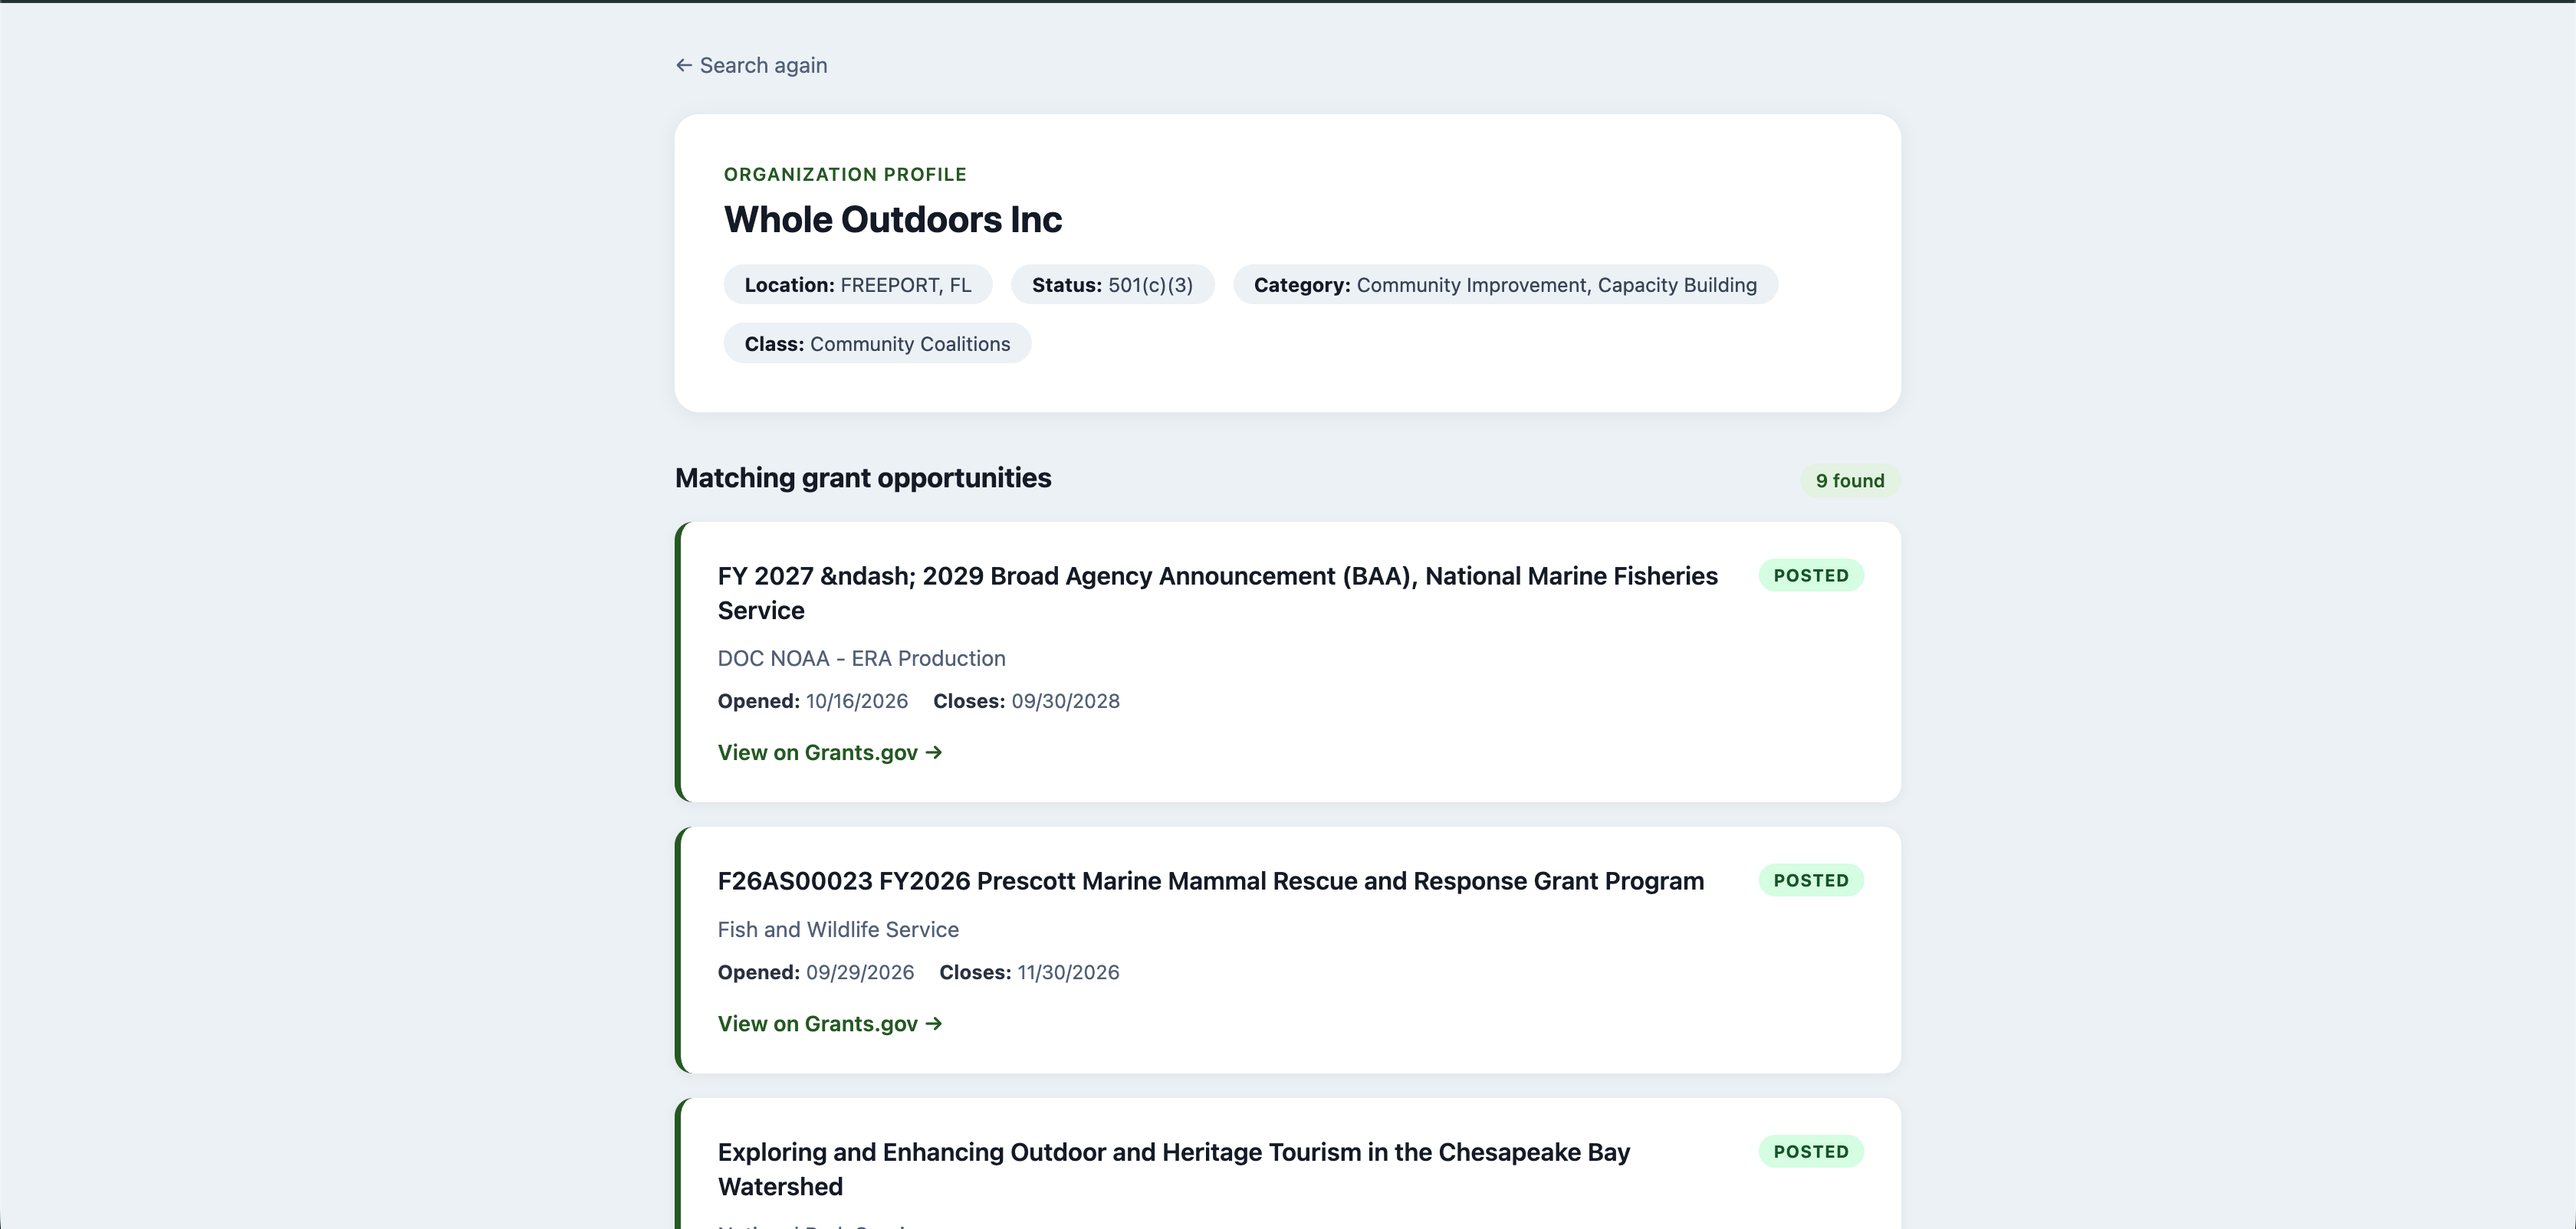
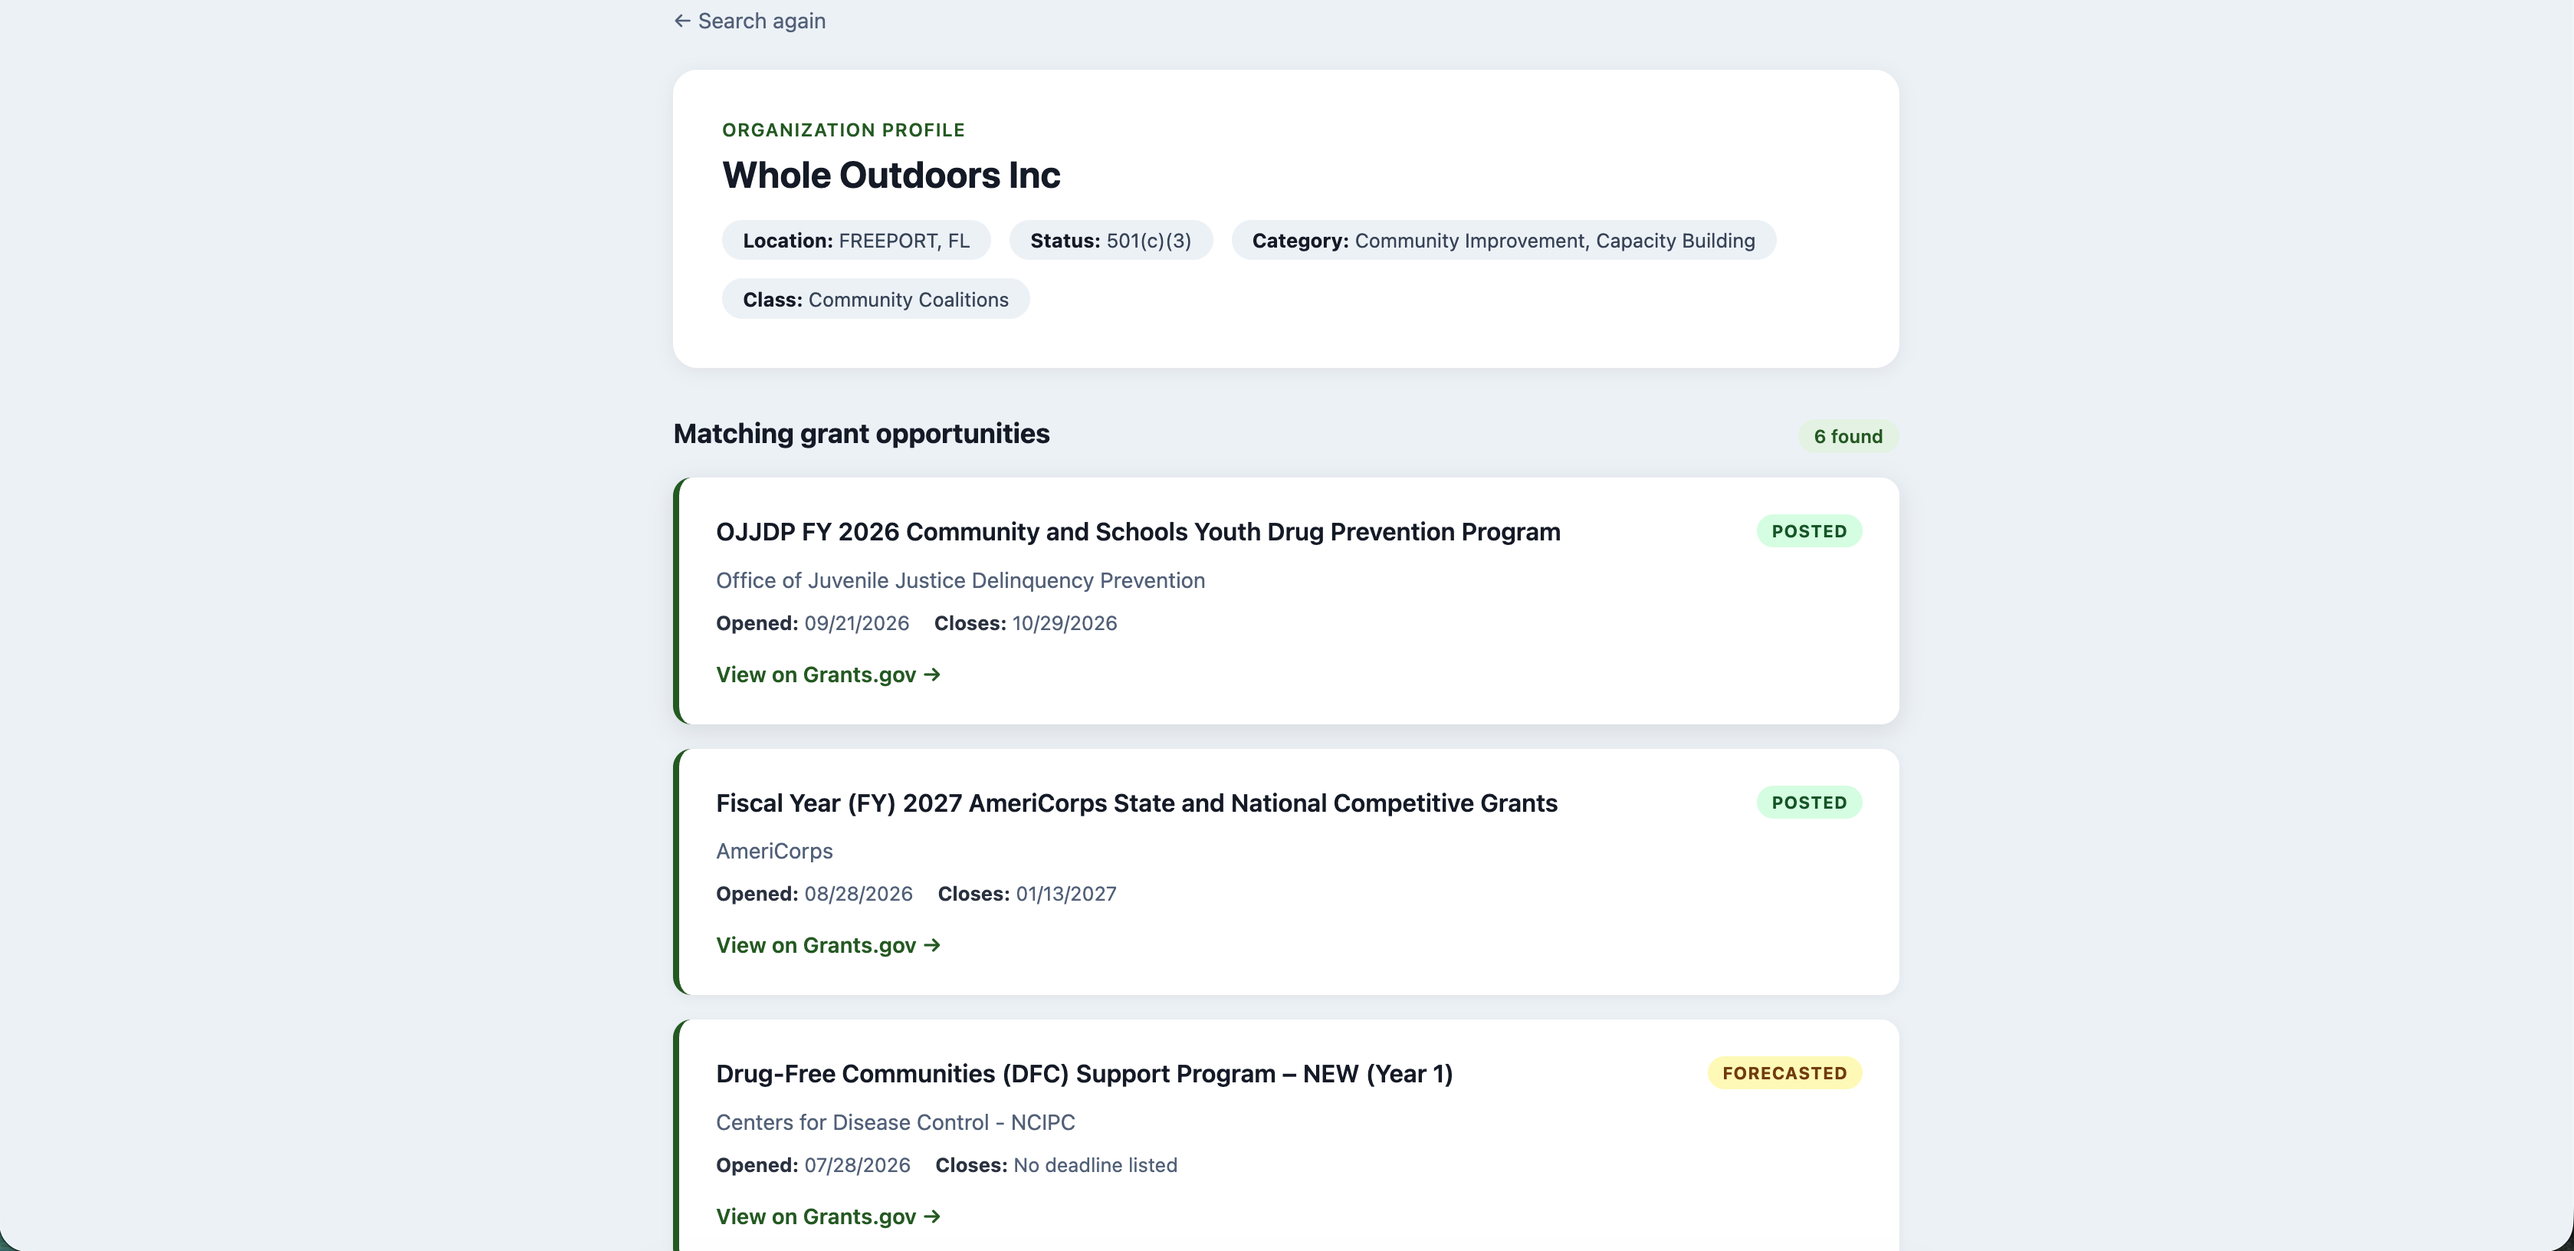
docs: correct sortBy claims in README
Grants.gov defaults to sorting by open date, and relevance|desc
  returns zero results, so the app never had relevance ranking.

diff --git a/README.md b/README.md
@@ -23,7 +23,7 @@ Small nonprofits often don't have a grant writer, and Grants.gov is hard to sear
 ## Design decisions
 
 - **Read first, match second.** Searching only after understanding the organization produces far more relevant results than a plain keyword search.
-- **Dropped the `sortBy` parameter.** Passing it to Grants.gov made the API sort by date or title instead of relevance, which hurt result quality. After the date filter runs, the app sorts the remaining grants by open date, newest first.
+- **Newest grants first.** Grants.gov sorts search results by open date by default (`openDate|desc`). I tested `relevance|desc` in Postman, but it returned zero results for searches that otherwise matched hundreds of grants, so the app uses date order and re-sorts after its date filter to keep it consistent.
 - **Post-fetch date filter.** Grants.gov returns many stale listings, so the app filters them out after each search rather than relying on the API's filters.
 - **Real test case.** I tested against [Whole Outdoors](https://wholeoutdoors.org), a nonprofit with a varied, multi-category mission, to stress the keyword logic.
 
@@ -65,11 +65,11 @@ If I picked it back up, I'd:
 - cache API responses to stay within free-tier limits
 - add saved searches with a small database (PostgreSQL)
 - rebuild the frontend in React for live filtering
-- score each grant against the organization's profile instead of relying only on keyword relevance
+- score each grant against the organization's profile instead of relying only on keyword matching
 
 ## What I learned
 
 - Designing a data flow across two APIs that weren't built to work together
 - Writing fallback logic when the best data source is missing
-- Reading API docs closely: one default parameter (`sortBy`) quietly broke result quality
+- Testing assumptions against the real API: I thought removing `sortBy` restored relevance ranking, but the `searchParams` the API echoed back showed it defaults to newest first
 - Doing competitive research before investing more time, and knowing when to stop
